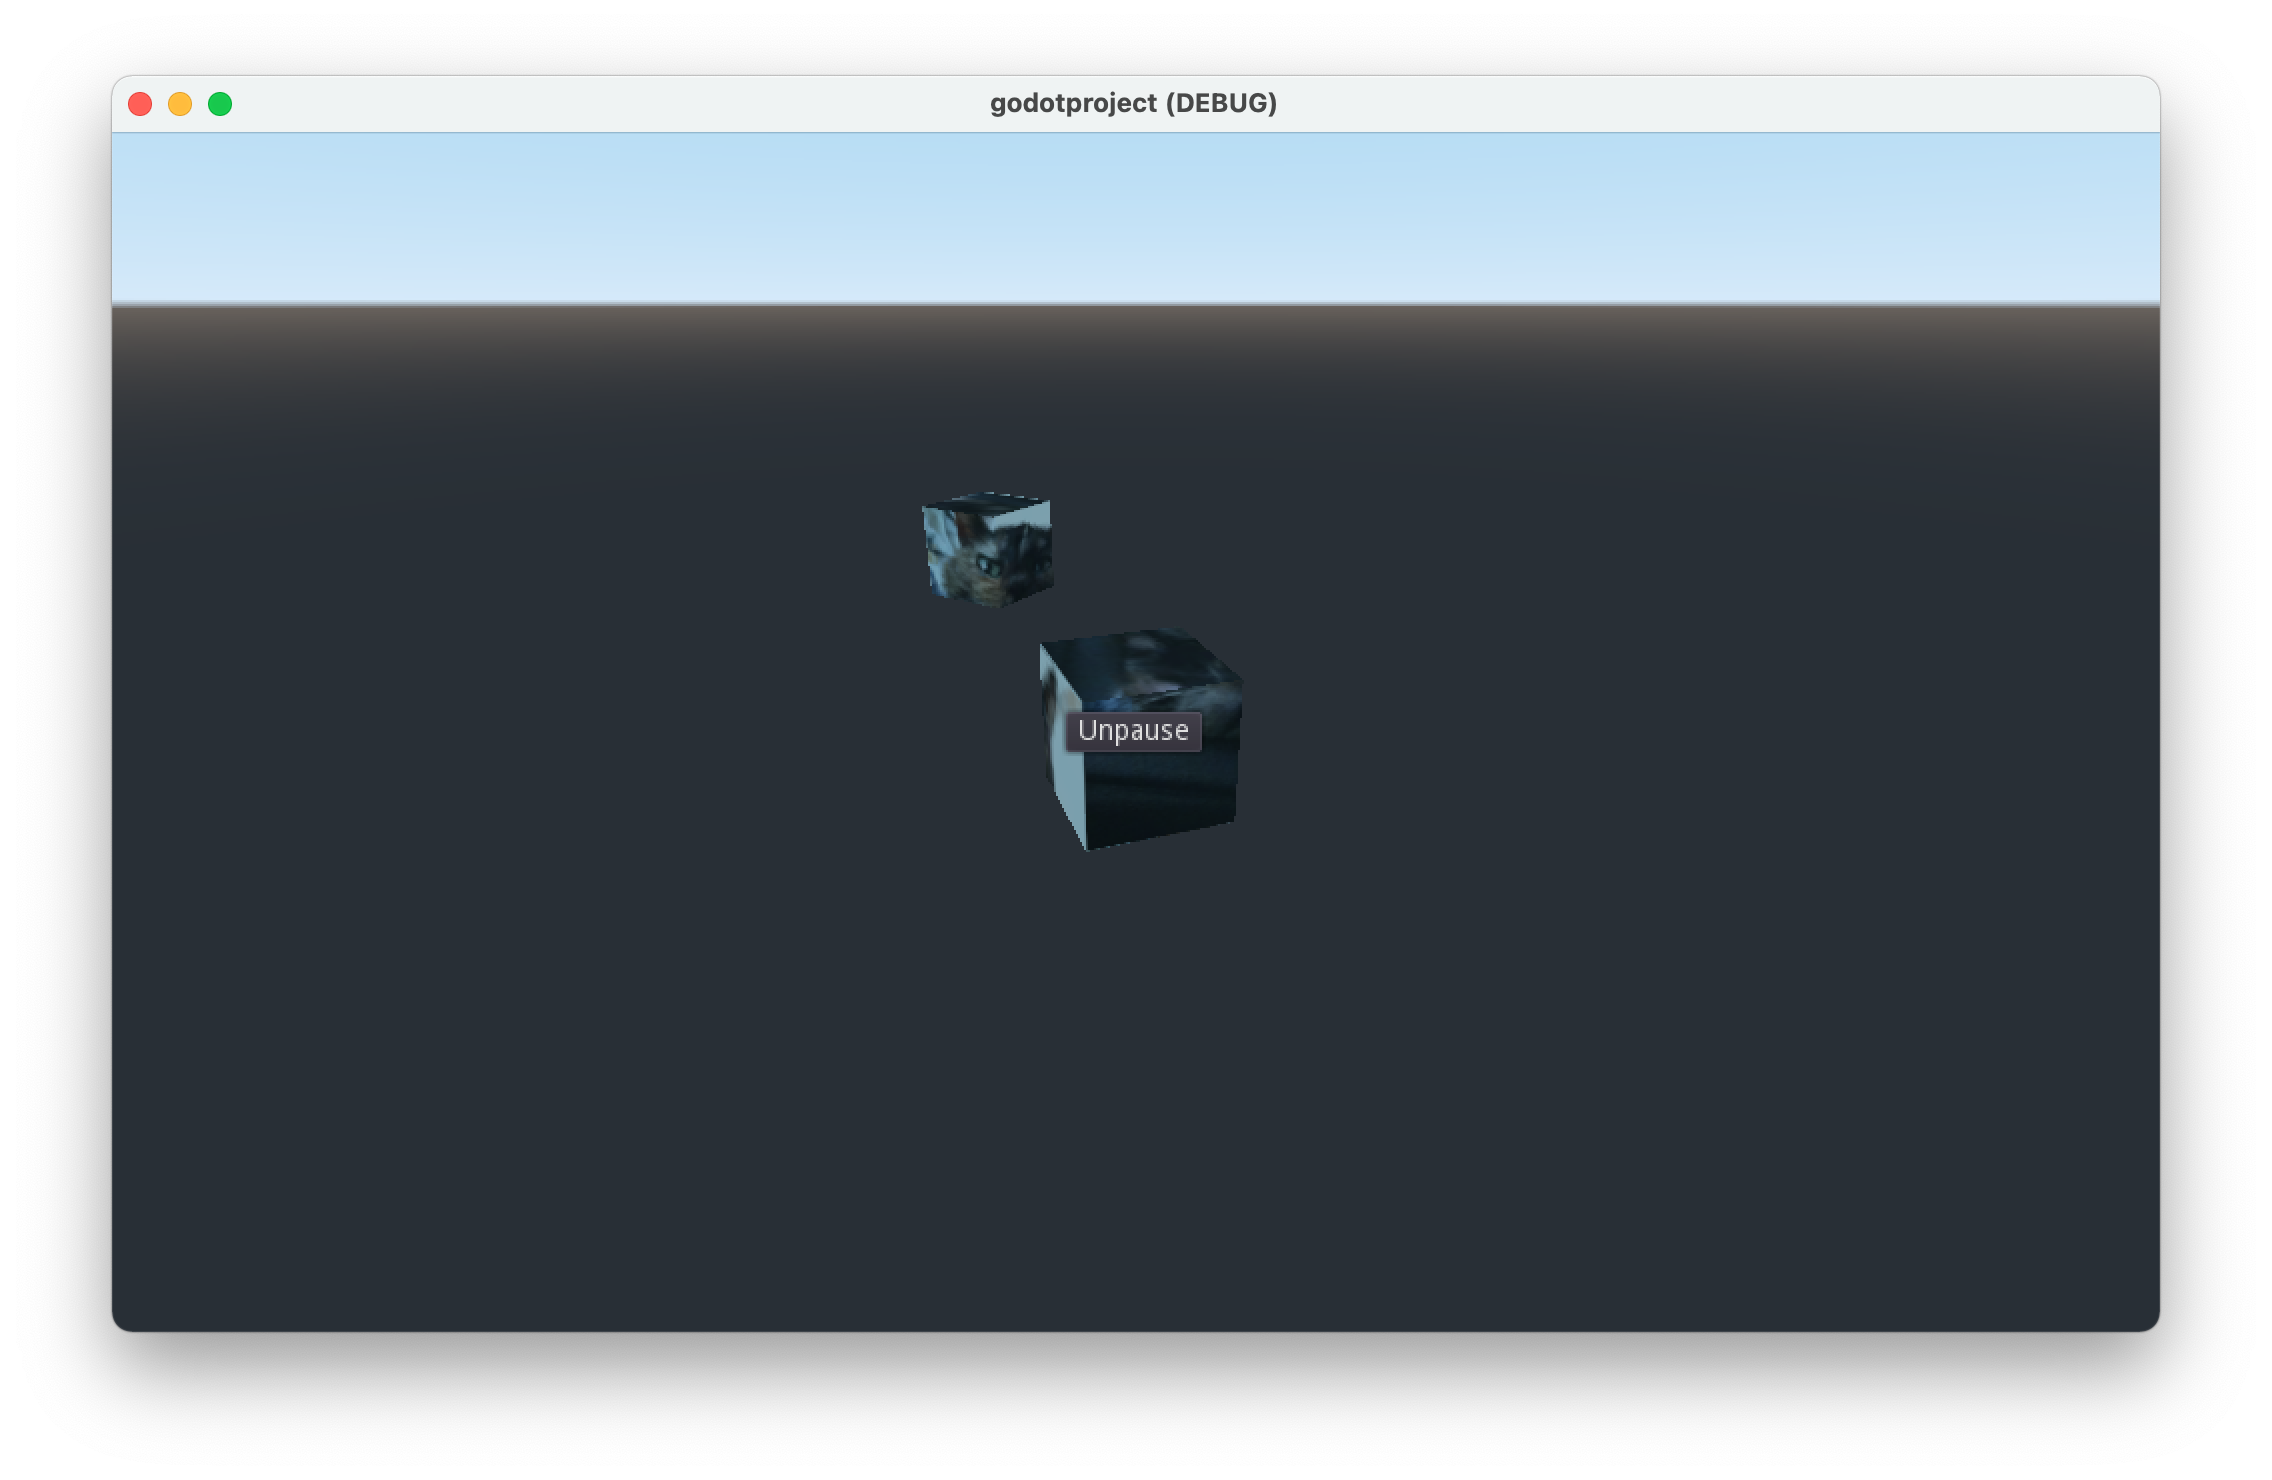
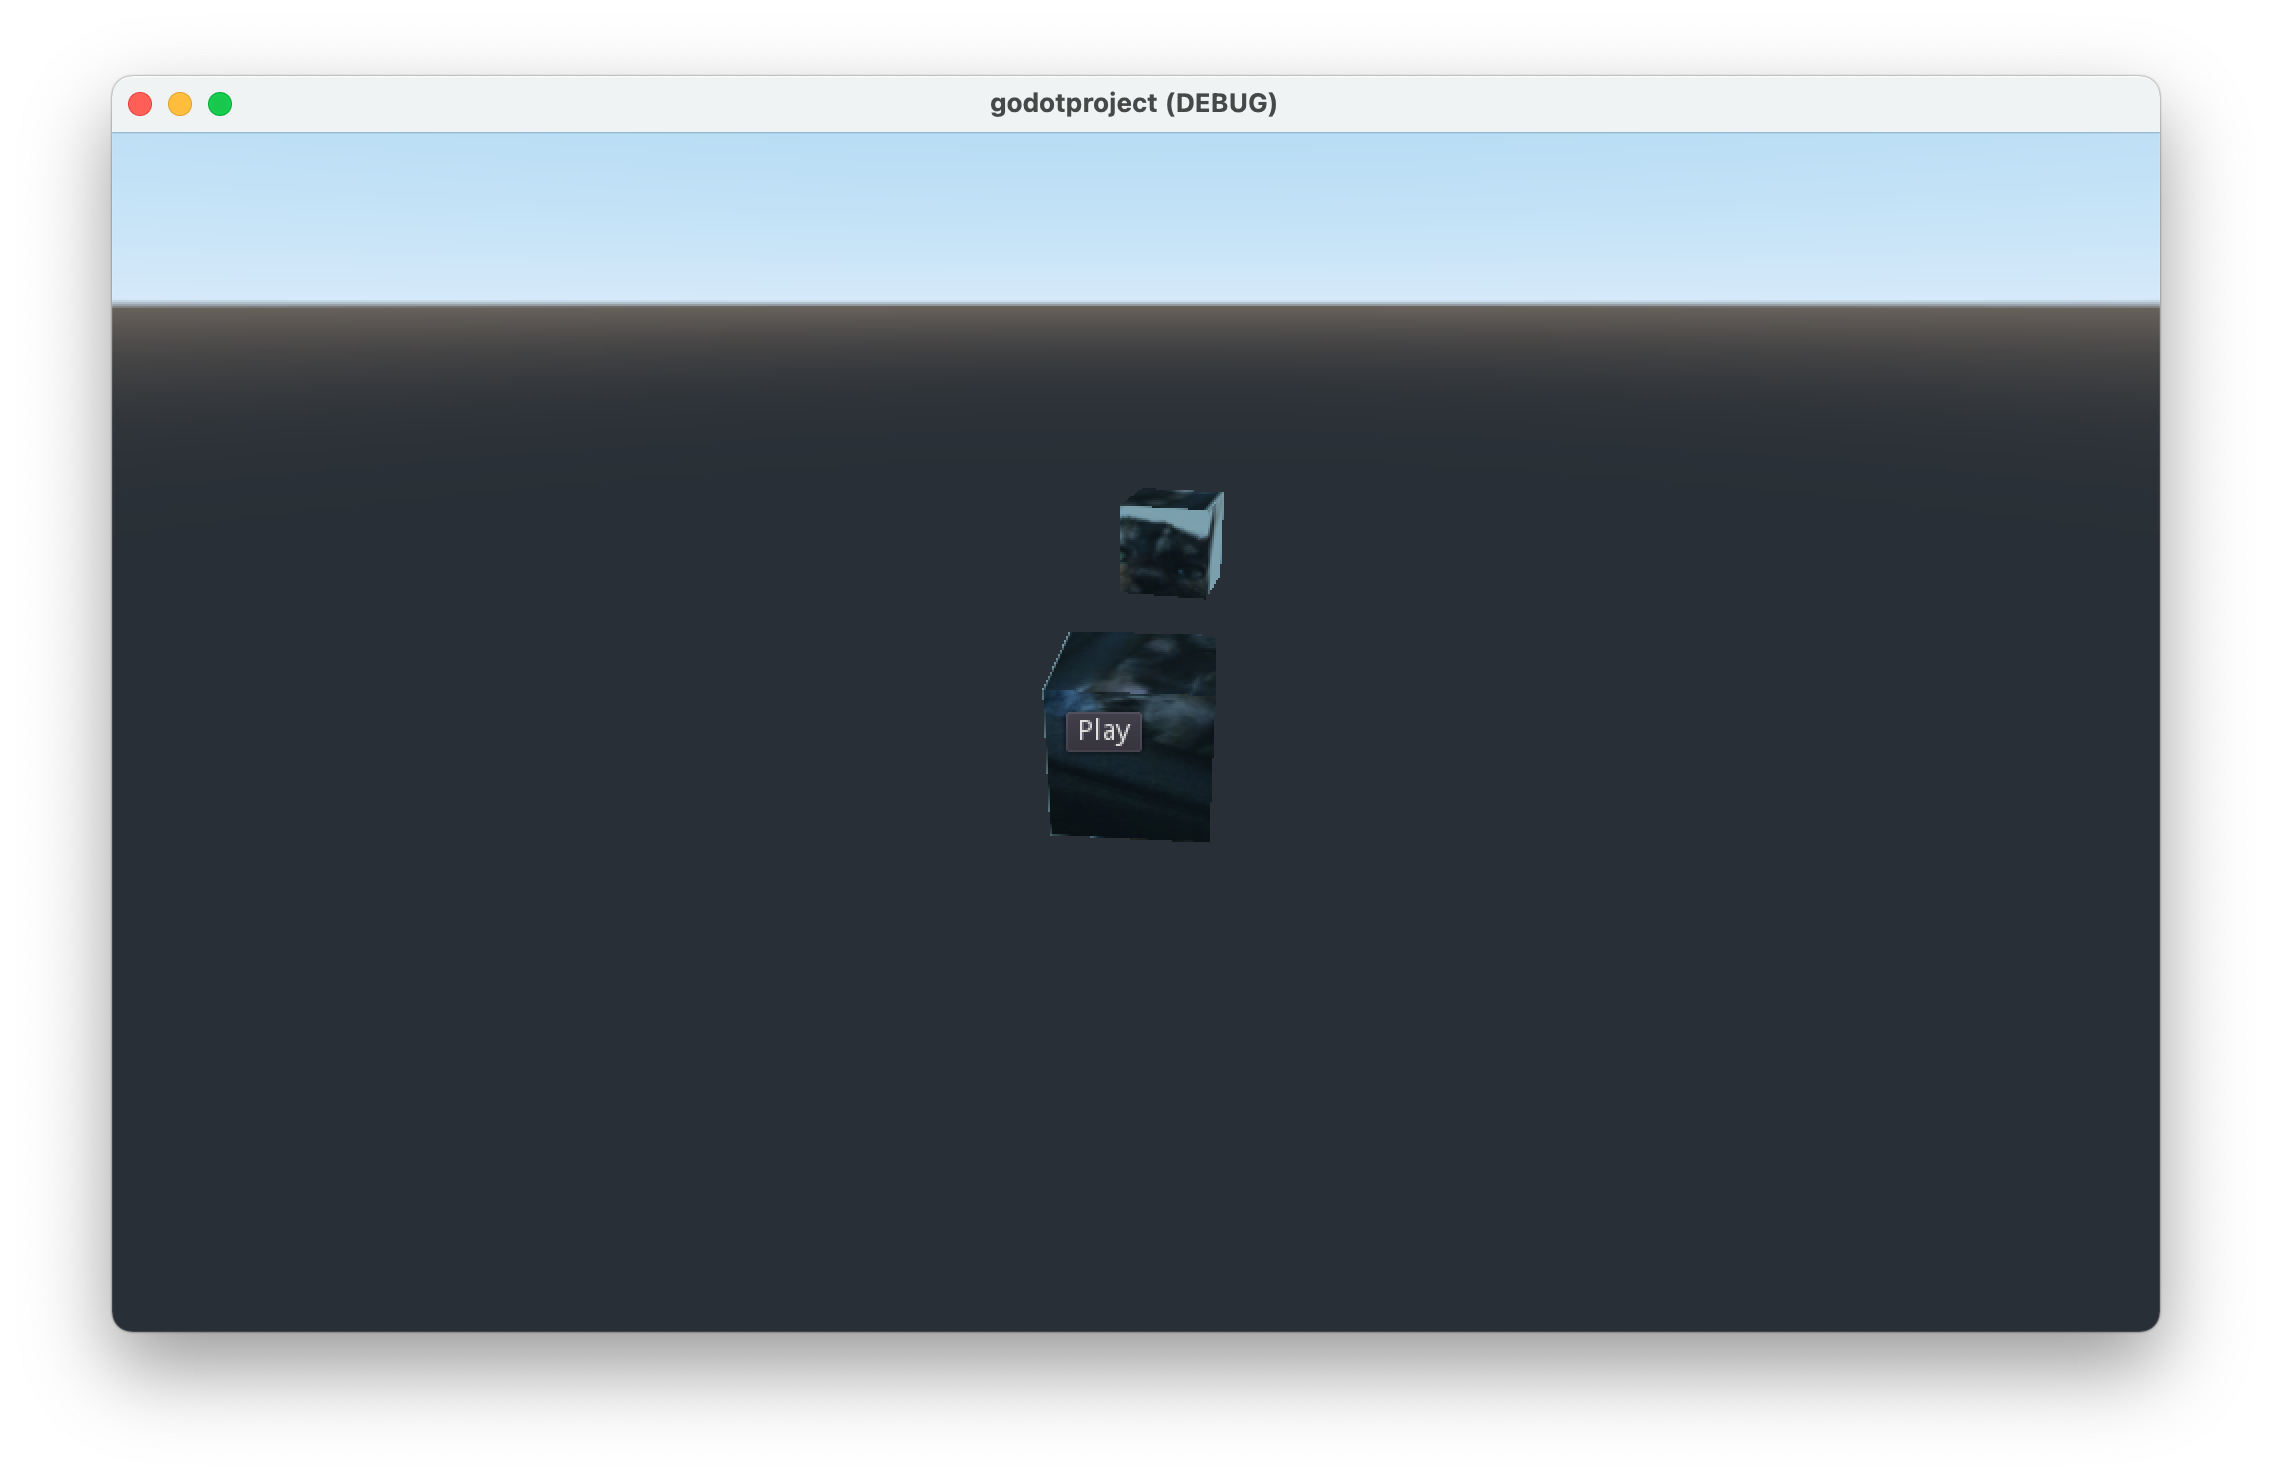
play

Changed region(s): [[0.4375, 0.4351, 0.5625, 0.5905], [0.5, 0.3419, 0.5625, 0.4041], [0.4062, 0.3419, 0.4688, 0.4041]]

diff --git a/chapter9/README.md b/chapter9/README.md
@@ -12,6 +12,11 @@ Let's start with adding an Unpause [button](https://docs.godotengine.org/en/stab
 
 <img src="images/pausebutton.png" height="300">
 
+Set the Button text to "Play".
+
+<img src="images/playbutton.png" height="300">
+
+
 By default, it will inherit the pause mode of the parent Pause node, which is to always run whether or not the scene is paused.
 
 <img src="images/buttonpausemode.png" height="300">
